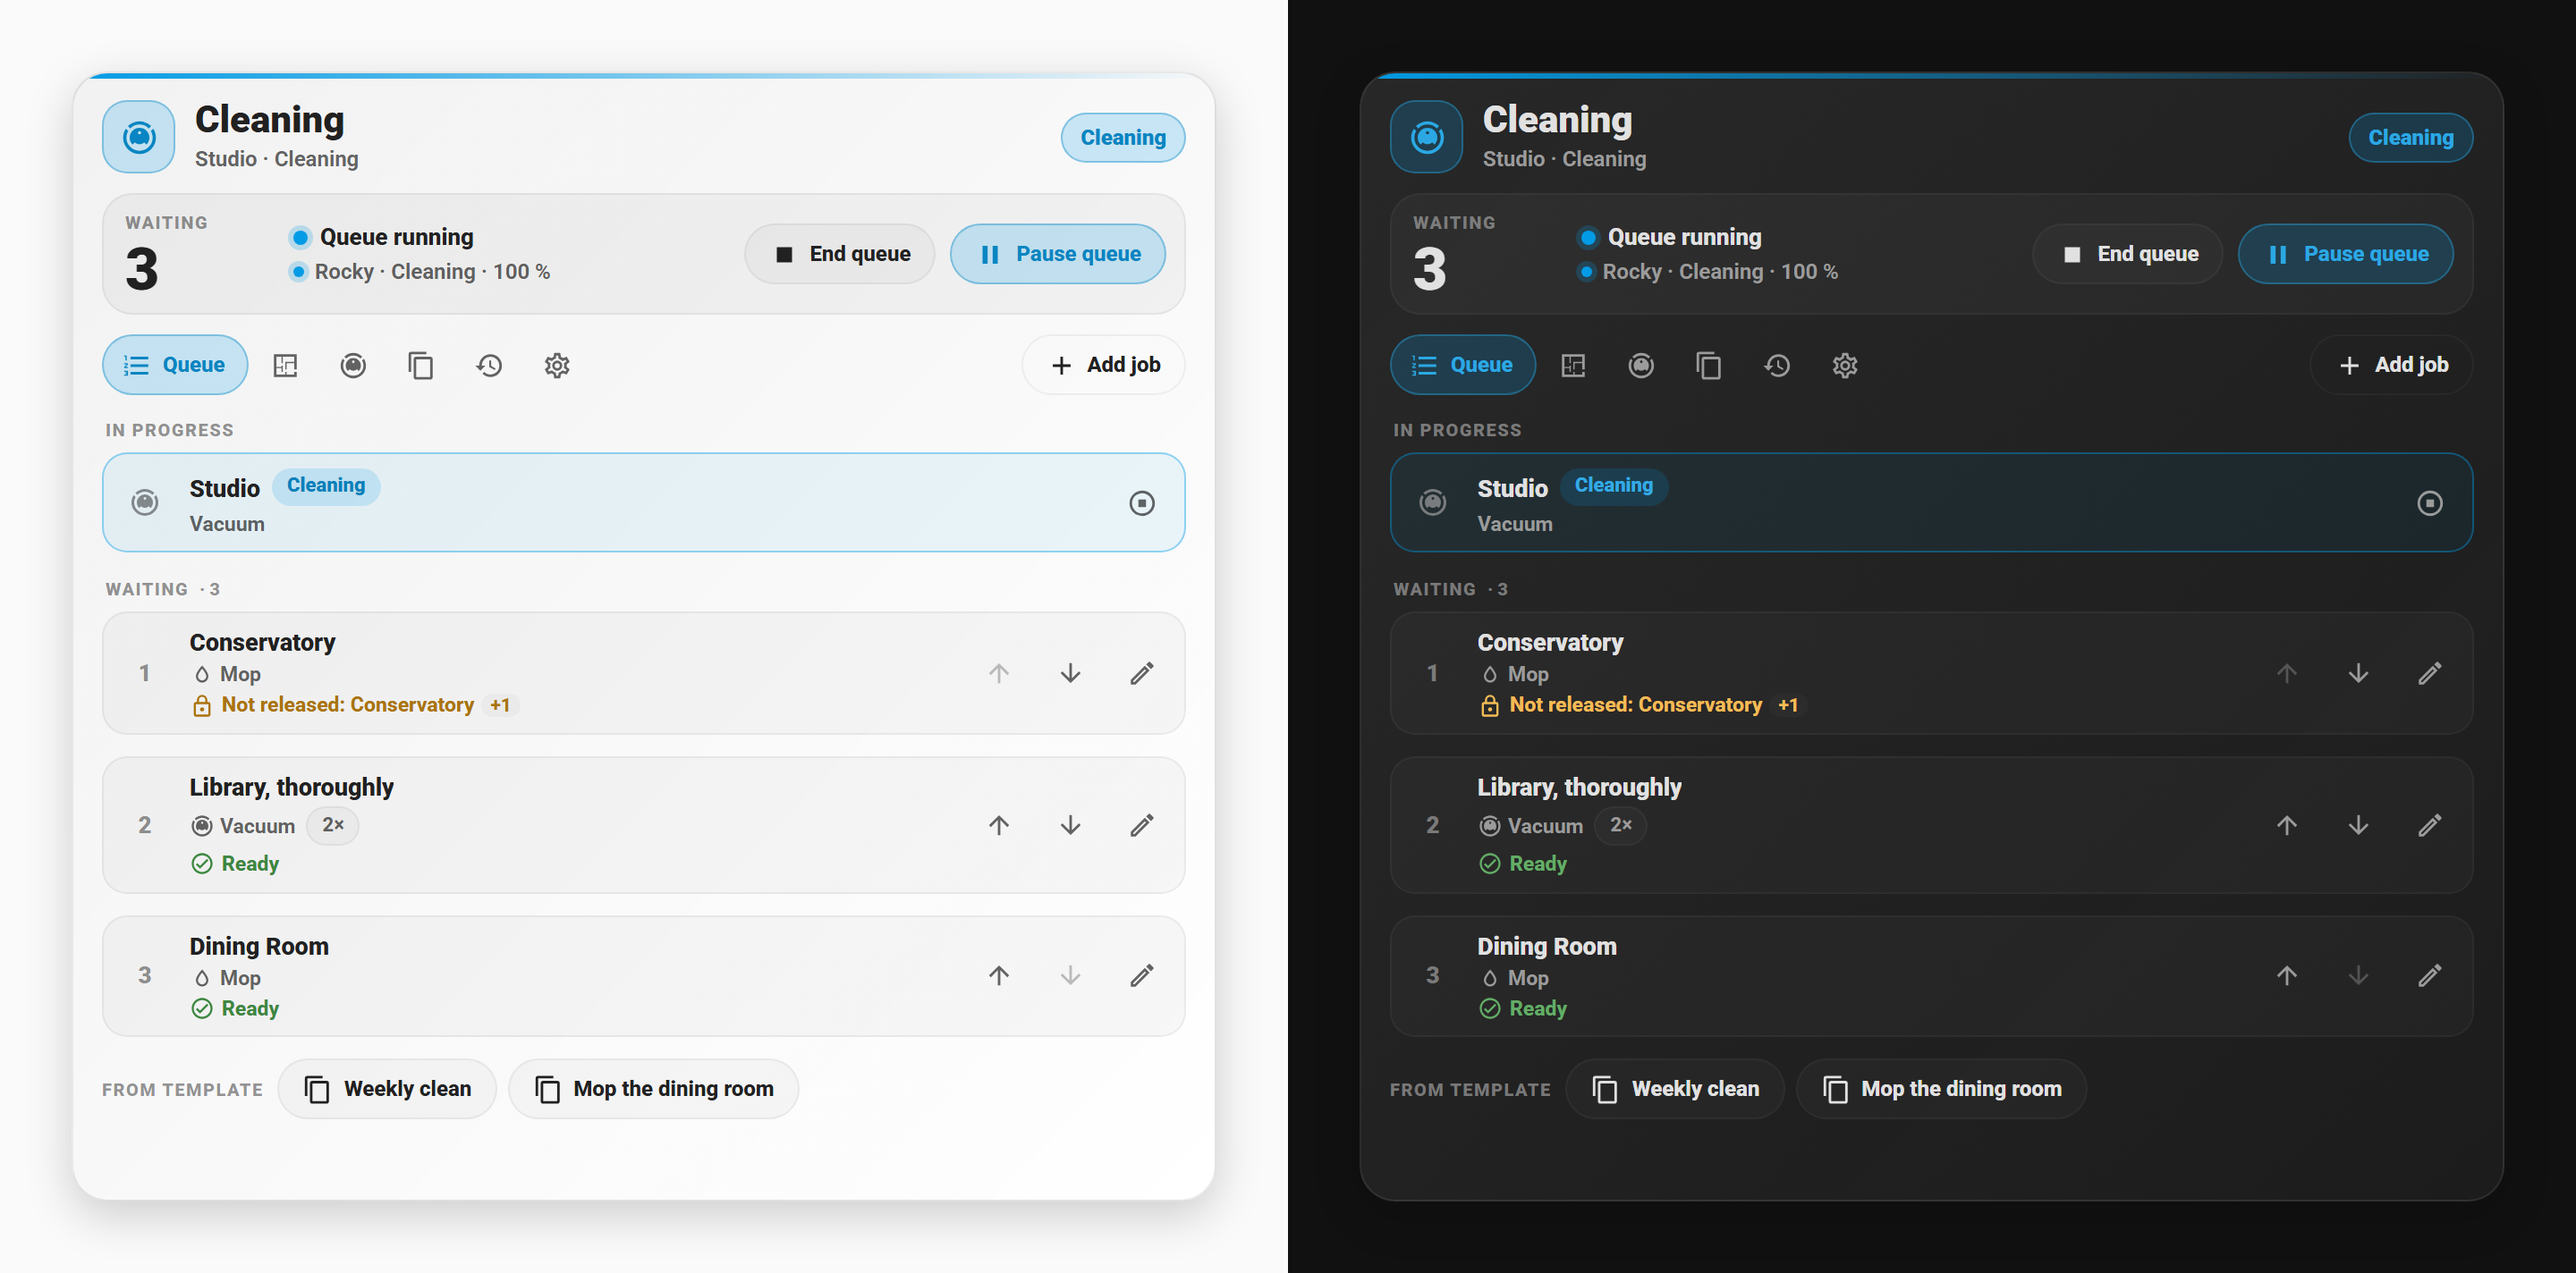
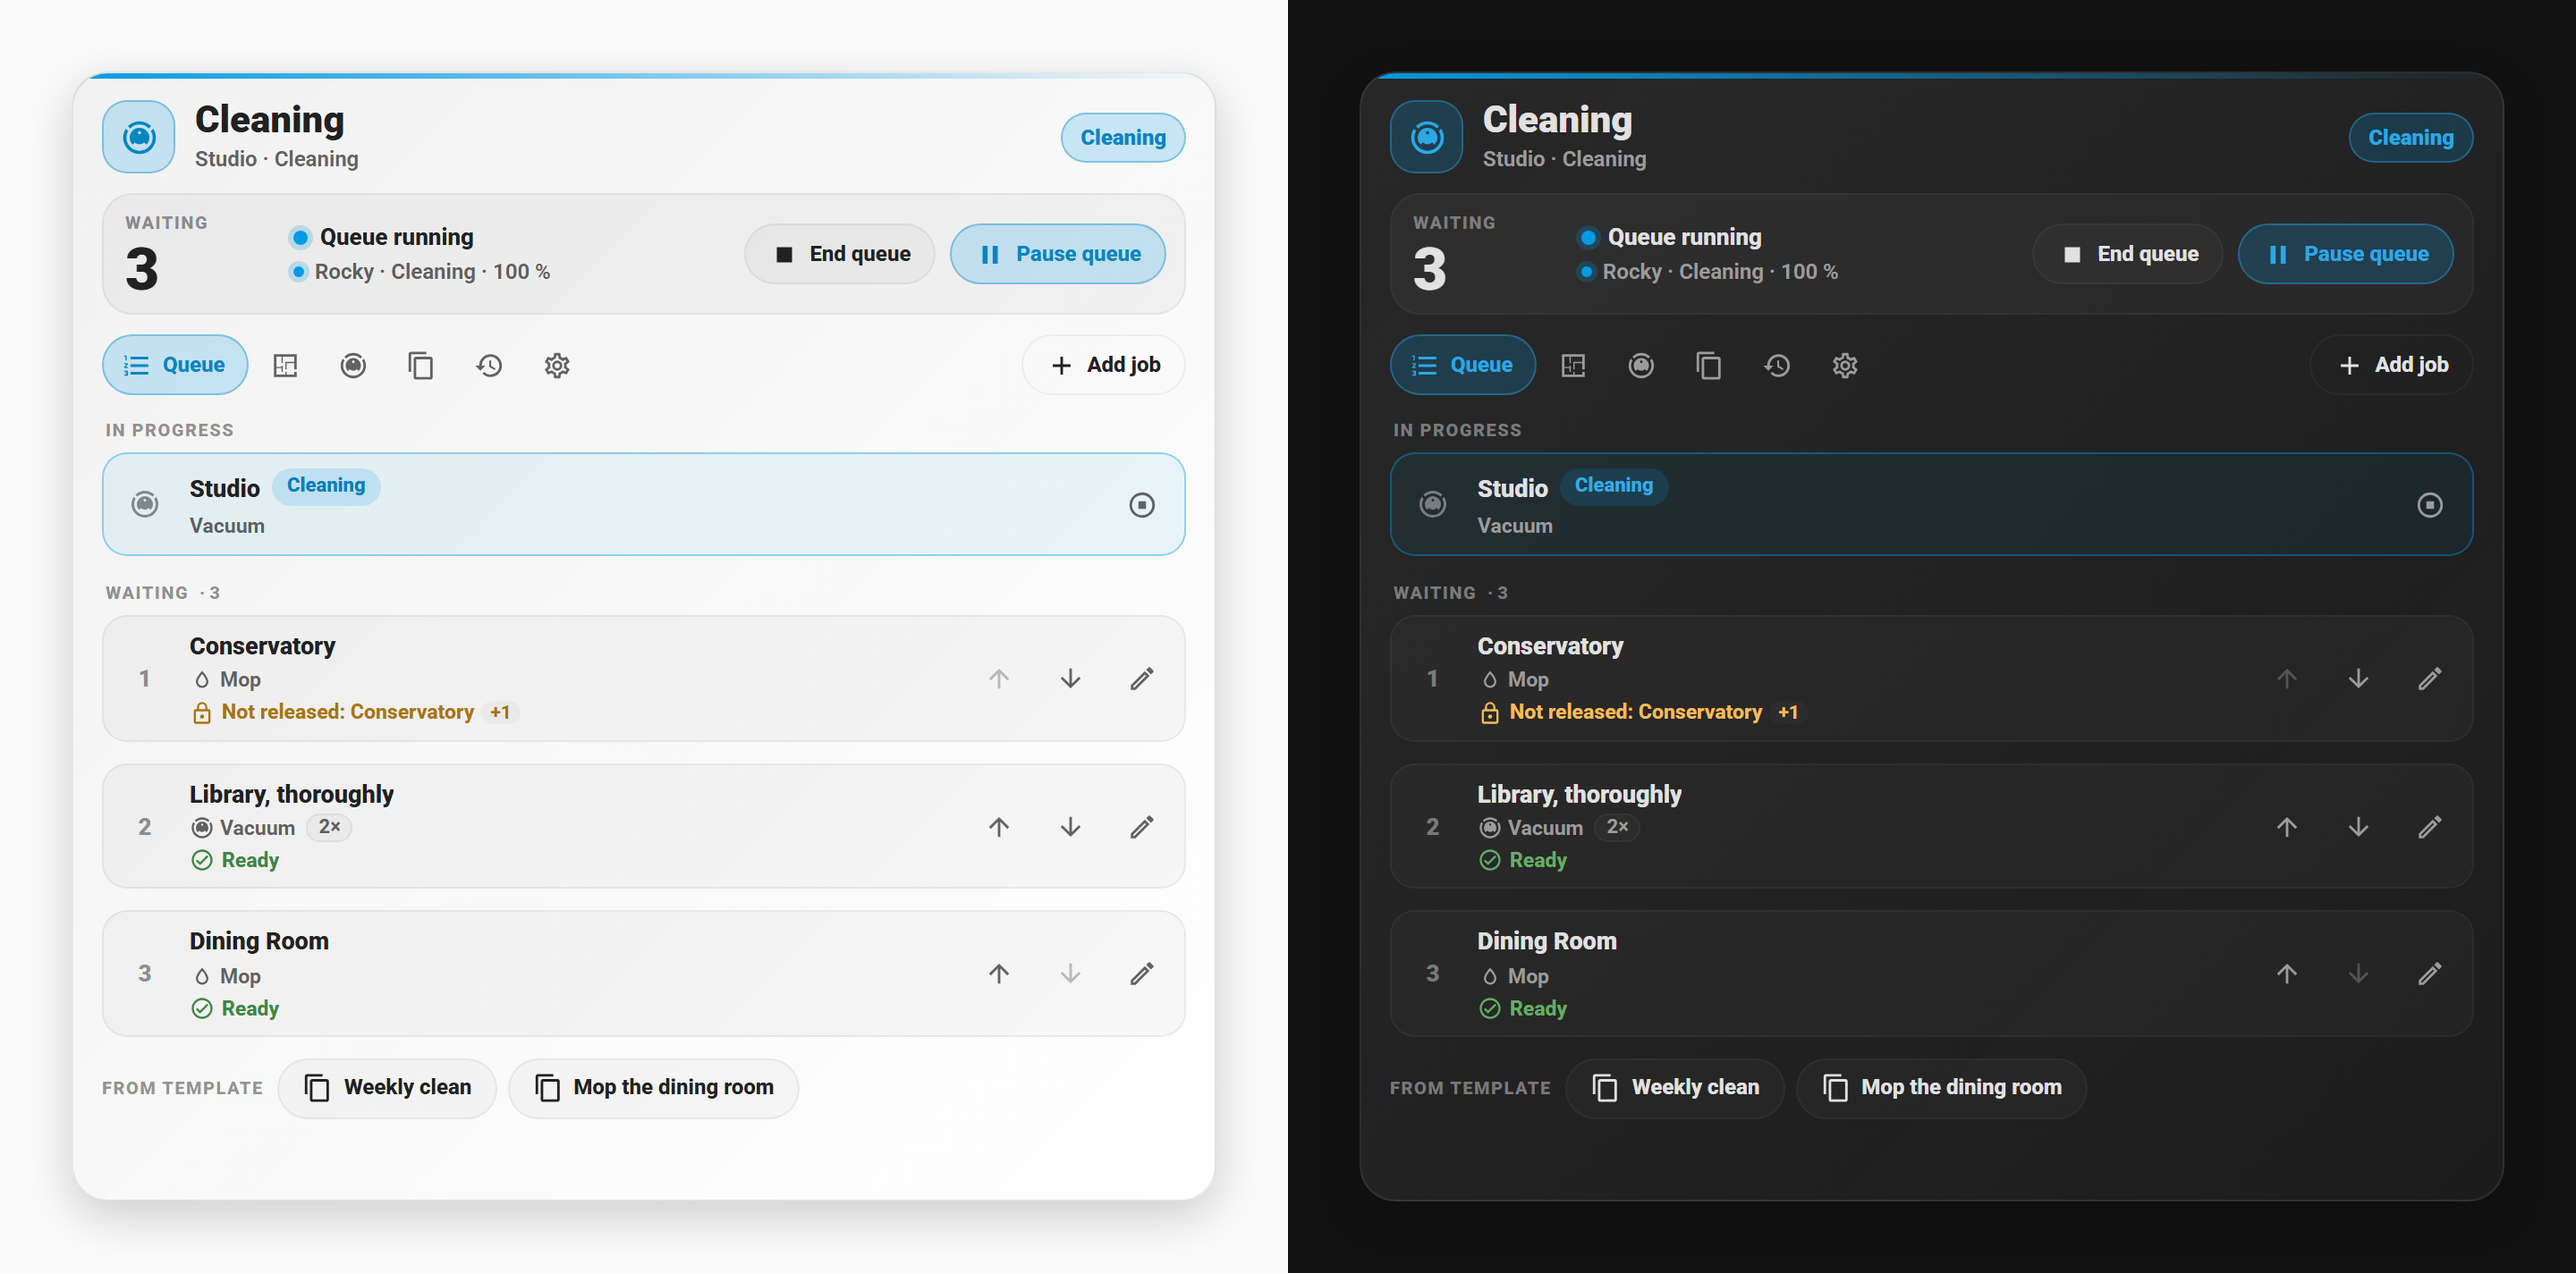
Keep queue rows of the same kind equally tall

diff --git a/test/browser/geometry/touch-targets.spec.js b/test/browser/geometry/touch-targets.spec.js
@@ -1,8 +1,8 @@
 // Target sizes, spacing and positions of row and card actions: inline with room between them on
 // wider cards, equal tiles across the row on narrow cards, a single action beside the title, the
 // run action always in the trailing slot, room cards that keep their own height and end with their
-// actions, panel controls that keep their labels beside or below the run state, and 44 px
-// targets 8 px apart under a coarse pointer.
+// actions, waiting rows alike in height, panel controls that keep their labels beside or below
+// the run state, and 44 px targets 8 px apart under a coarse pointer.
 
 const { test, expect } = require("../../helpers/playwright.js");
 const { BUSY, mountCard, named, setCardWidth } = require("../../helpers/browser-helpers.js");
@@ -108,6 +108,23 @@ test.describe("with a mouse", () => {
     expect([...seen].sort()).toEqual([false, true]);
   });
 });
+
+// LAY-21: waiting rows with title, details and readiness are alike in height, with or without a
+// chip among the details.
+for (const width of [900, 380]) {
+  test(`waiting rows of the same kind are equally tall at ${width} px`, async ({ page }) => {
+    const card = await mountCard(page, { ...BUSY, width });
+    const rows = await card.evaluate((element) => [...element.shadowRoot.querySelectorAll('.voc-job[data-state="queued"]')].map((row) => ({
+      title: row.querySelector(".voc-job-title").textContent.trim(),
+      chips: row.querySelectorAll(".voc-job-meta .voc-chip").length,
+      height: row.getBoundingClientRect().height,
+    })));
+    expect(rows.length).toBeGreaterThan(2);
+    expect(rows.some((row) => row.chips > 0) && rows.some((row) => row.chips === 0), "rows with and without a chip").toBe(true);
+    const heights = rows.map((row) => row.height);
+    expect(Math.max(...heights) - Math.min(...heights), JSON.stringify(rows)).toBeLessThanOrEqual(1);
+  });
+}
 
 // LAY-10, LAY-21, UI-24: on every tier the queue controls keep their labels and stay inside the
 // panel, and neither they nor the figure cover the run state.

diff --git a/src/views/styles/queue.js b/src/views/styles/queue.js
@@ -1,6 +1,7 @@
 // Queue view: job rows, recovery alerts, template quick starts and pagination. The job row is
 // shared with the history view. Below 560 px a row with several actions spreads them as equal
-// tiles over its full width; a single action stays beside the title.
+// tiles over its full width; a single action stays beside the title. The details line has one
+// line height, chips included, so rows of the same kind are equally tall (LAY-21).
 
 const JOB_ACTION_BAR = [
   '.voc-job[data-actions="several"] .voc-job-actions { grid-column: 1 / -1; display: grid; grid-auto-flow: column; grid-auto-columns: minmax(0, 1fr); gap: 8px; padding-top: 2px; }',
@@ -61,7 +62,8 @@ export const QUEUE_CSS = `
 
 .voc-job-title-line { display: flex; align-items: center; gap: 6px; min-width: 0; }
 .voc-job-title { min-width: 0; overflow: hidden; text-overflow: ellipsis; white-space: nowrap; font-size: 13.5px; font-weight: 850; line-height: 1.2; }
-.voc-job-meta { display: flex; flex-wrap: wrap; align-items: center; gap: 4px 6px; min-width: 0; font-size: 11.5px; font-weight: 700; color: var(--voc-muted); }
+.voc-job-meta { display: flex; flex-wrap: wrap; align-items: center; gap: 4px 6px; min-width: 0; font-size: 11.5px; font-weight: 700; line-height: 16px; color: var(--voc-muted); }
+.voc-job-meta .voc-chip { padding: 0 6px; line-height: 14px; }
 .voc-job-mode { display: inline-flex; align-items: center; gap: 3px; }
 .voc-job-mode ha-icon { --mdc-icon-size: 14px; }
 .voc-job-rooms { overflow: hidden; text-overflow: ellipsis; white-space: nowrap; }

diff --git a/test/baseline/styles/full.css b/test/baseline/styles/full.css
@@ -651,7 +651,8 @@ ha-card[data-frame] [data-scroll][data-overflow-top][data-overflow-bottom] { mas
 
 .voc-job-title-line { display: flex; align-items: center; gap: 6px; min-width: 0; }
 .voc-job-title { min-width: 0; overflow: hidden; text-overflow: ellipsis; white-space: nowrap; font-size: 13.5px; font-weight: 850; line-height: 1.2; }
-.voc-job-meta { display: flex; flex-wrap: wrap; align-items: center; gap: 4px 6px; min-width: 0; font-size: 11.5px; font-weight: 700; color: var(--voc-muted); }
+.voc-job-meta { display: flex; flex-wrap: wrap; align-items: center; gap: 4px 6px; min-width: 0; font-size: 11.5px; font-weight: 700; line-height: 16px; color: var(--voc-muted); }
+.voc-job-meta .voc-chip { padding: 0 6px; line-height: 14px; }
 .voc-job-mode { display: inline-flex; align-items: center; gap: 3px; }
 .voc-job-mode ha-icon { --mdc-icon-size: 14px; }
 .voc-job-rooms { overflow: hidden; text-overflow: ellipsis; white-space: nowrap; }
